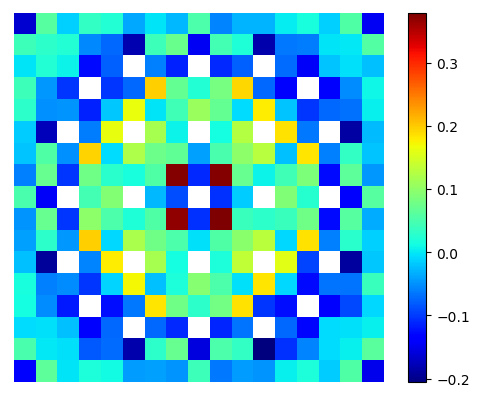
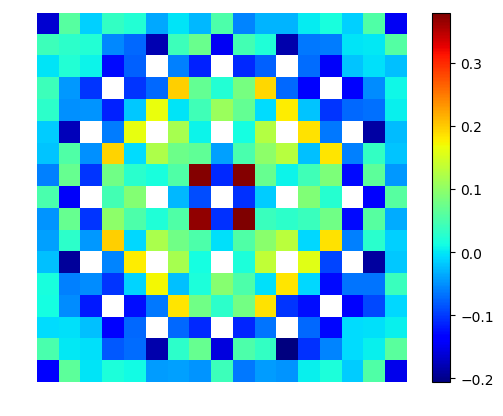
Added LNS fission rate errors

diff --git a/results.tex b/results.tex
@@ -59,41 +59,59 @@ The OpenMOC energy-integrated pin-wise fission rates were compared to the refere
 \end{tabular}
 \end{table}
 
-%The spatial distributions of fission rate errors are plotted as heatmaps for each benchmark in \autoref{fig:fiss-errors}. The heatmaps illustrate systematic trends in the pin-wise fission errors which correlate with spatial heterogeneities in each benchmark. In particular, the fission rates are generally underpredicted for pins adjacent to a single CRGT, but overpredicted for pins adjacent to two CRGTs in the assembly. In addition, the errors are largest for pins along the inter-assembly and assembly-reflector interfaces for the colorset benchmark.
+The spatial distributions of fission rate errors are plotted as heatmaps for each benchmark in \autoref{fig:assm-fiss-errors} and \autoref{fis:reflector-fiss-errors}. The heatmaps illustrate systematic trends in the pin-wise fission errors which correlate with spatial heterogeneities in each benchmark. In particular, the fission rates are generally underpredicted for pins adjacent to a single CRGT, but overpredicted for pins adjacent to two CRGTs in the assembly. In addition, the errors are largest for pins along the inter-assembly and assembly-reflector interfaces for the colorset benchmark.
 
 %For the PWR benchmarks modeled here, the moderation provided by neighboring CRGTs and reflectors softens the flux for nearby fuel pins and should be modeled when collapsing pin-wise MGXS for high-fidelity multi-group transport calculations.
 
-% FIXME: Need to either (a) plot fission rate errors for LNS or (b) remove the figure and instead point to the table of errors to say that the difference is small
+\clearpage
 
-%\begin{figure*}[h!]
-%\centering
-%\begin{subfigure}{0.45\textwidth}
-%  \centering
-%  \includegraphics[width=\linewidth]{figures/assembly/fiss-null-errors}
-%  \caption{}
-%  \label{fig:assm-fiss-null-error}
-%\end{subfigure}%
-%\begin{subfigure}{0.45\textwidth}
-%  \centering
-%  \includegraphics[width=\linewidth]{figures/assembly/fiss-degenerate-errors}
-%  \caption{}
-%  \label{fig:assm-fiss-degen-error}
-%\end{subfigure}
-%\begin{subfigure}{0.45\textwidth}
-%  \centering
-%  \includegraphics[width=\linewidth]{figures/reflector/fiss-null-errors}
-%  \caption{}
-%  \label{fig:reflector-fiss-null-error}
-%\end{subfigure}%
-%\begin{subfigure}{0.45\textwidth}
-%  \centering
-%  \includegraphics[width=\linewidth]{figures/reflector/fiss-degenerate-errors}
-%  \caption{}
-%  \label{fig:reflector-fiss-degen-error}
-%\end{subfigure}
-%\caption{OpenMOC fission rate percent relative errors for the assembly (a) and colorset (b) benchmarks.}
-%\label{fig:fiss-errors}
-%\end{figure*}
+\begin{figure}[H]
+  \centering 
+\begin{subfigure}{0.45\textwidth}
+  \centering
+  \includegraphics[width=\linewidth]{figures/assembly/fiss-null-errors}
+  \caption{}
+  \label{fig:assm-fiss-null-error}
+\end{subfigure}
+\begin{subfigure}{0.45\textwidth}
+  \centering
+  \includegraphics[width=\linewidth]{figures/assembly/fiss-degenerate-errors}
+  \caption{}
+  \label{fig:assm-fiss-degen-error}
+\end{subfigure}
+\begin{subfigure}{0.45\textwidth}
+  \centering
+  \includegraphics[width=\linewidth]{figures/assembly/fiss-lns-errors}
+  \caption{}
+  \label{fig:assm-fiss-lns-error}
+\end{subfigure}
+\caption{OpenMOC fission rate percent relative errors for the assembly with null (a), degenerate (b) and LNS (c) spatial homogenization.}
+\label{fig:assm-fiss-errors}
+\end{figure}
+
+\begin{figure}[H]
+  \centering 
+\begin{subfigure}{0.45\textwidth}
+  \centering
+  \includegraphics[width=\linewidth]{figures/reflector/fiss-null-errors}
+  \caption{}
+  \label{fig:reflector-fiss-null-error}
+\end{subfigure}
+\begin{subfigure}{0.45\textwidth}
+  \centering
+  \includegraphics[width=\linewidth]{figures/reflector/fiss-degenerate-errors}
+  \caption{}
+  \label{fig:reflector-fiss-degen-error}
+\end{subfigure}
+\begin{subfigure}{0.45\textwidth}
+  \centering
+  \includegraphics[width=\linewidth]{figures/reflector/fiss-lns-errors}
+  \caption{}
+  \label{fig:reflector-fiss-lns-error}
+\end{subfigure}
+\caption{OpenMOC fission rate percent relative errors for the colorset with null (a), degenerate (b) and LNS (c) spatial homogenization.}
+\label{fig:reflector-fiss-errors}
+\end{figure}
 
 
 %%%%%%%%%%%%%%%%%%%%%%%%%%%%%%%%%%%%%%%%%%%%%%%%%%%%%%%%%%%%%%%%%%%%%%%%%%%%%%%
@@ -149,7 +167,7 @@ This result is indicative of the collective homogenization of all pins along the
   \caption{}
   \label{fig:assm-capt-lns-error}
 \end{subfigure}
-\caption{OpenMOC U-238 capture rate percent relative errors for the assembly with null (a), degenerate (b) and LNS (C) spatial homogenization.}
+\caption{OpenMOC U-238 capture rate percent relative errors for the assembly with null (a), degenerate (b) and LNS (c) spatial homogenization.}
 \label{fig:assm-capt-errors}
 \end{figure}
 
@@ -173,6 +191,6 @@ This result is indicative of the collective homogenization of all pins along the
   \caption{}
   \label{fig:reflector-capt-lns-error}
 \end{subfigure}
-\caption{OpenMOC U-238 capture rate percent relative errors for the colorset with null (a), degenerate (b) and LNS (C) spatial homogenization.}
+\caption{OpenMOC U-238 capture rate percent relative errors for the colorset with null (a), degenerate (b) and LNS (c) spatial homogenization.}
 \label{fig:reflector-capt-errors}
 \end{figure}
